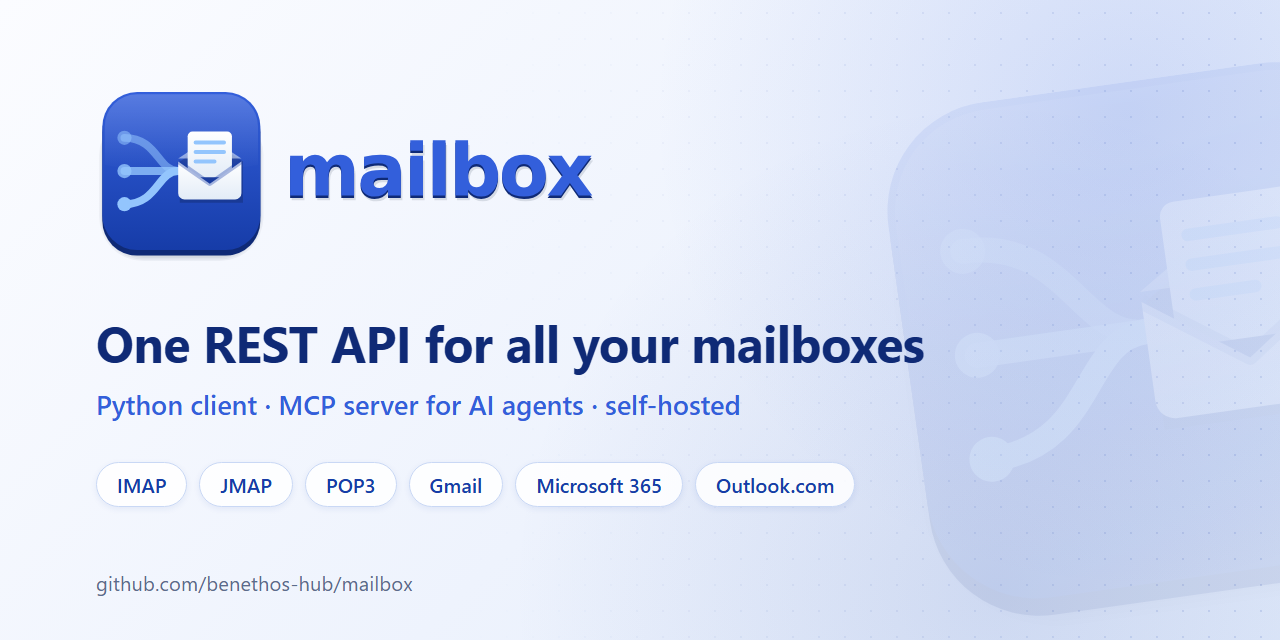
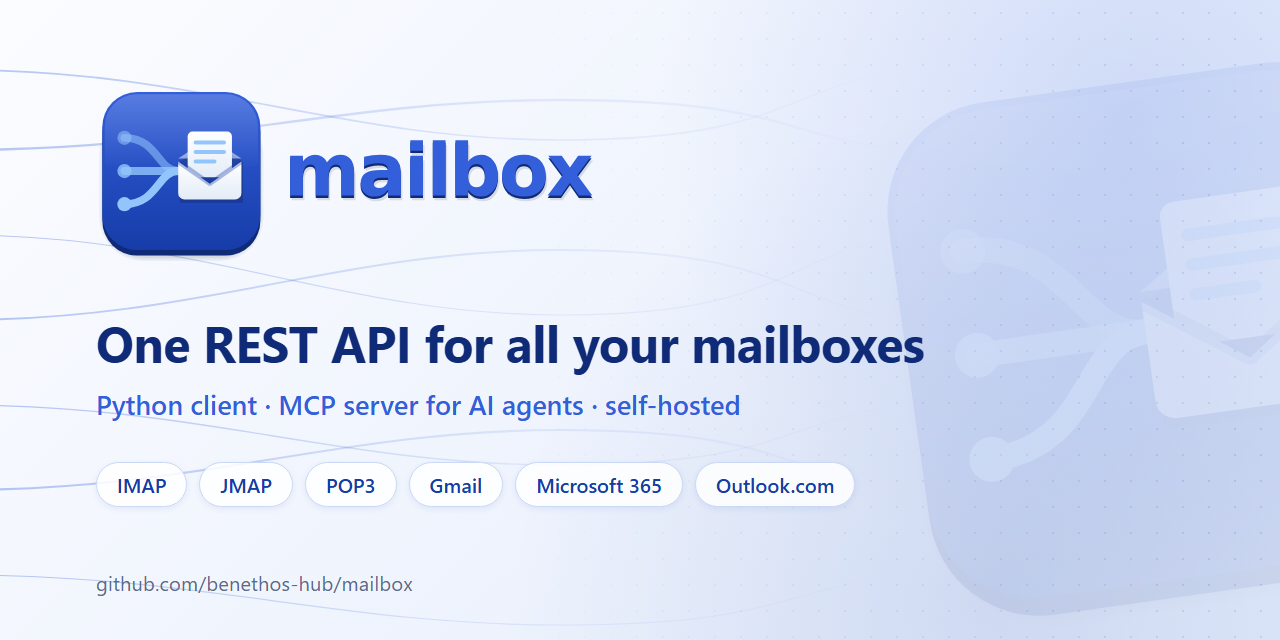
Social preview: fine lines flowing in from the left
Seven lines start at the left edge, swing gently and fade out towards
the middle, behind the logo and the text.

diff --git a/assets/build.py b/assets/build.py
@@ -150,6 +150,7 @@ _SOCIAL_STYLE = """
     opacity: .08; transform: rotate(-8deg);
   }
   .mark svg { width: 100%; height: auto; }
+  .lines { position: absolute; left: 0; top: 0; }
   .content { position: absolute; left: 96px; top: 92px; right: 96px; }
   .logo svg { width: 520px; height: auto; display: block; }
   h1 {
@@ -171,15 +172,50 @@ _SOCIAL_STYLE = """
 """
 
 
+# Flowing lines from the left edge that fade out towards the middle: the
+# height where each starts, how far it swings and its stroke width.
+_SOCIAL_LINES = (
+    (70, 70, 1.6),
+    (150, -50, 2.4),
+    (235, 80, 1.2),
+    (320, -70, 2.0),
+    (405, 60, 1.4),
+    (490, -60, 2.2),
+    (575, 50, 1.2),
+)
+
+
+def _social_lines() -> str:
+    """The lines as an SVG over the whole page, fading out to the right."""
+    paths = "".join(
+        f'<path d="M -40 {y} C 200 {y}, 340 {y + swing}, 560 {y + swing} '
+        f'S 780 {y + swing * 0.3:g}, 900 {y}" stroke-width="{width}"/>'
+        for y, swing, width in _SOCIAL_LINES
+    )
+    return (
+        '<svg class="lines" width="1280" height="640" viewBox="0 0 1280 640">'
+        '<defs><linearGradient id="fade" gradientUnits="userSpaceOnUse" '
+        'x1="0" y1="0" x2="900" y2="0">'
+        '<stop offset="0" stop-color="#335FDB" stop-opacity=".34"/>'
+        '<stop offset=".55" stop-color="#335FDB" stop-opacity=".12"/>'
+        '<stop offset="1" stop-color="#335FDB" stop-opacity="0"/>'
+        "</linearGradient></defs>"
+        f'<g fill="none" stroke="url(#fade)" stroke-linecap="round">{paths}</g>'
+        "</svg>"
+    )
+
+
 def social(logo: str, mark: str) -> str:
     """The page of the social preview: the 3D logo, what the project is,
     the providers it reaches and where it lives, on a light blue ground
-    with the 3D icon large and faint at the right."""
+    with flowing lines from the left and the 3D icon large and faint at
+    the right."""
     chips = "".join(f'<span class="chip">{p}</span>' for p in SOCIAL_PROVIDERS)
     return (
         '<!doctype html>\n<html><head><meta charset="utf-8">'
         f"<style>{_SOCIAL_STYLE}</style></head>\n<body>\n"
         '<div class="grid"></div>\n'
+        f"{_social_lines()}\n"
         f'<div class="mark">{plain(mark)}</div>\n'
         '<div class="content">\n'
         f'<div class="logo">{plain(logo)}</div>\n'

diff --git a/packages/mailbox-service/tests/web/pages/test_ui_icon.py b/packages/mailbox-service/tests/web/pages/test_ui_icon.py
@@ -74,7 +74,9 @@ def test_the_social_preview_shows_the_3d_logo_and_what_it_is() -> None:
         build.SOCIAL_SOURCE.read_text("utf-8"), build.SOCIAL_MARK.read_text("utf-8")
     )
     assert "width: 1280px; height: 640px;" in page
-    assert page.count("<svg ") == 2
+    # The logo, the faint icon and the lines behind.
+    assert page.count("<svg ") == 3
+    assert page.count('<path d="M -40 ') == len(build._SOCIAL_LINES)
     assert "c2pa" not in page
     readme = " ".join((REPOSITORY / "README.md").read_text("utf-8").split())
     assert build.SOCIAL_TITLE.removeprefix("One ") in readme
